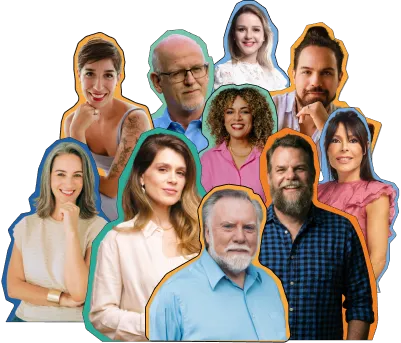
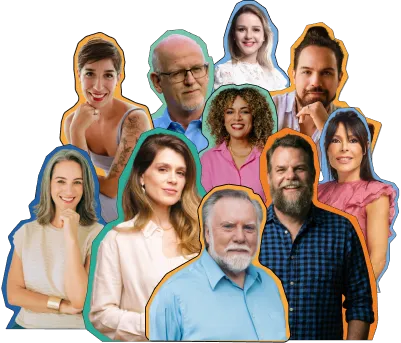
fix(section2): ajusta scroll-mt para evitar corte de texto nos botoes do hero vsl

Changed region(s): [[0.0, 0.379, 0.2693, 0.9621]]

diff --git a/src/components/sections/HeroSectionVSL.tsx b/src/components/sections/HeroSectionVSL.tsx
@@ -1,181 +1,28 @@
 "use client";
 
-import { useState, useRef, useEffect } from "react";
-import { Volume2 } from "lucide-react";
+import { useEffect } from "react";
 import Marquee01 from "@/components/sections/Marquee01";
 import Marquee02 from "@/components/sections/Marquee02";
 
-interface HeroSectionVSLProps {
-    videoId?: string;
-}
-
-// ponytail: minimal YT IFrame API loader — single hero player, no wrapper lib
-function loadYouTubeApi(cb: () => void) {
-    const w = window as any;
-    if (w.YT && w.YT.Player) { cb(); return; }
-    const prev = w.onYouTubeIframeAPIReady;
-    w.onYouTubeIframeAPIReady = () => { prev?.(); cb(); };
-    if (!document.getElementById("youtube-iframe-api")) {
-        // Preconnect + preload live in the document <head> (layout.tsx); this reads from cache
-        const tag = document.createElement("script");
-        tag.id = "youtube-iframe-api";
-        tag.src = "https://www.youtube.com/iframe_api";
-        document.head.appendChild(tag);
+declare global {
+    namespace JSX {
+        interface IntrinsicElements {
+            'vturb-smartplayer': React.DetailedHTMLProps<React.HTMLAttributes<HTMLElement> & { id?: string }, HTMLElement>;
+        }
     }
 }
 
-export default function HeroSectionVSL({
-    videoId = "43nQXAVRh-E"
-}: HeroSectionVSLProps) {
-    const playerRef = useRef<any>(null);
-    const mountRef = useRef<HTMLDivElement>(null);
-    const containerRef = useRef<HTMLDivElement>(null);
-    const isReadyRef = useRef<boolean>(false);
-    const fadeIntervalRef = useRef<any>(null);
-    const [isPaused, setIsPaused] = useState<boolean>(true);
-
+export default function HeroSectionVSL() {
     useEffect(() => {
-        let cancelled = false;
-        let observer: IntersectionObserver | null = null;
-
-        loadYouTubeApi(() => {
-            if (cancelled || !mountRef.current) return;
-            const w = window as any;
-            playerRef.current = new w.YT.Player(mountRef.current, {
-                videoId,
-                playerVars: {
-                    autoplay: 0,       // Não inicia sozinho no carregamento
-                    mute: 0,
-                    loop: 1,
-                    playlist: videoId, // required for single-video loop
-                    controls: 0,       // no YouTube controls
-                    modestbranding: 1,
-                    rel: 0,            // no related-video grid
-                    playsinline: 1,
-                    disablekb: 1,
-                    fs: 0,
-                    iv_load_policy: 3, // no annotations/cards
-                    cc_load_policy: 0, // desativar legendas do YouTube
-                    cc_lang_pref: "none",
-                },
-                events: {
-                    onReady: (e: any) => {
-                        isReadyRef.current = true;
-                        try {
-                            e.target.unloadModule?.("captions");
-                            e.target.unloadModule?.("cc");
-                        } catch {}
-                        setupObserver();
-                    },
-                    onStateChange: (e: any) => {
-                        // Quando o vídeo começa a tocar (state 1 = PLAYING), força a remoção das legendas do YouTube
-                        if (e.data === 1 || e.data === (window as any).YT?.PlayerState?.PLAYING) {
-                            try {
-                                e.target.unloadModule?.("captions");
-                                e.target.unloadModule?.("cc");
-                                e.target.setOption?.("captions", "track", {});
-                                e.target.setOption?.("cc", "track", {});
-                            } catch {}
-                        }
-                    },
-                },
-            });
-        });
-
-        function fadeOutAndPause(p: any) {
-            if (!p) return;
-            setIsPaused(true);
-            if (fadeIntervalRef.current) clearInterval(fadeIntervalRef.current);
-
-            let vol = 100;
-            try {
-                if (typeof p.getVolume === "function") {
-                    vol = p.getVolume() || 100;
-                }
-            } catch {}
-
-            fadeIntervalRef.current = setInterval(() => {
-                vol -= 15;
-                if (vol <= 0) {
-                    clearInterval(fadeIntervalRef.current);
-                    fadeIntervalRef.current = null;
-                    try {
-                        p.setVolume(0);
-                        p.pauseVideo();
-                    } catch {}
-                } else {
-                    try {
-                        p.setVolume(vol);
-                    } catch {}
-                }
-            }, 35);
+        const scriptId = "vturb-player-script";
+        if (!document.getElementById(scriptId)) {
+            const s = document.createElement("script");
+            s.id = scriptId;
+            s.src = "https://scripts.converteai.net/45503b29-1a7d-4696-ac1d-75f7fc87b786/players/6a693af5a9935db927668857/v4/player.js";
+            s.async = true;
+            document.head.appendChild(s);
         }
-
-        function fadeInAndPlay(p: any) {
-            if (!p) return;
-            setIsPaused(false);
-            if (fadeIntervalRef.current) clearInterval(fadeIntervalRef.current);
-
-            try {
-                p.setVolume(0);
-                p.playVideo();
-            } catch {
-                try {
-                    p.mute();
-                    p.playVideo();
-                } catch {}
-            }
-
-            let vol = 0;
-            fadeIntervalRef.current = setInterval(() => {
-                vol += 15;
-                if (vol >= 100) {
-                    clearInterval(fadeIntervalRef.current);
-                    fadeIntervalRef.current = null;
-                    try {
-                        p.setVolume(100);
-                    } catch {}
-                } else {
-                    try {
-                        p.setVolume(vol);
-                    } catch {}
-                }
-            }, 35);
-        }
-
-        function setupObserver() {
-            if (!containerRef.current || observer) return;
-
-            observer = new IntersectionObserver(
-                (entries) => {
-                    entries.forEach((entry) => {
-                        const p = playerRef.current;
-                        if (!p || !isReadyRef.current) return;
-
-                        // Se o player estiver 100% visível na tela (>= 0.95 para precisão subpixel)
-                        if (entry.intersectionRatio >= 0.95) {
-                            fadeInAndPlay(p);
-                        } else if (entry.intersectionRatio < 0.3) {
-                            // Inicia o fade suave assim que o player começa a sair da tela
-                            fadeOutAndPause(p);
-                        }
-                    });
-                },
-                {
-                    threshold: [0, 0.3, 0.95, 1.0],
-                }
-            );
-
-            observer.observe(containerRef.current);
-        }
-
-        return () => {
-            cancelled = true;
-            if (fadeIntervalRef.current) clearInterval(fadeIntervalRef.current);
-            observer?.disconnect();
-            playerRef.current?.destroy?.();
-        };
-    }, [videoId]);
+    }, []);
 
     return (
         <section
@@ -213,34 +60,19 @@ export default function HeroSectionVSL({
                     </div>
                 </div>
 
-                {/* --- VSL Video Frame (responsive 16:9) --- */}
+                {/* --- VSL Video Frame (VTurb SmartPlayer) --- */}
                 <div
-                    ref={containerRef}
-                    className="w-full max-w-[960px] aspect-video relative rounded-[20px] md:rounded-[32px] overflow-hidden border-2 md:border-4 border-[#191919] shadow-[6px_6px_0px_0px_#191919] md:shadow-[10px_10px_0px_0px_#191919] bg-black bg-center my-2 z-10"
-                    style={{ backgroundImage: `url(https://i.ytimg.com/vi/${videoId}/maxresdefault.jpg)`, backgroundSize: "cover", backgroundPosition: "center" }}
+                    className="w-full max-w-[960px] relative rounded-[20px] md:rounded-[32px] overflow-hidden border-2 md:border-4 border-[#191919] shadow-[6px_6px_0px_0px_#191919] md:shadow-[10px_10px_0px_0px_#191919] bg-black my-2 z-10"
                 >
-                    {/* YouTube player mounts inside */}
-                    <div className="yt-frame absolute inset-0 w-full h-full overflow-hidden pointer-events-none">
-                        <div ref={mountRef} className="w-full h-full" />
-                    </div>
-
-                    {/* Overlay sutil de transição visual ao pausar */}
-                    <div
-                        className={`absolute inset-0 bg-black/25 pointer-events-none transition-opacity duration-700 ease-in-out ${
-                            isPaused ? "opacity-100" : "opacity-0"
-                        }`}
-                    />
-
-                    <style jsx>{`
-                        .yt-frame :global(iframe) {
-                            position: absolute;
-                            left: 0;
-                            top: 0;
-                            width: 100%;
-                            height: 100%;
-                            pointer-events: none;
-                        }
-                    `}</style>
+                    <vturb-smartplayer
+                        id="vid-6a693af5a9935db927668857"
+                        style={{ display: "block", margin: "0 auto", width: "100%" }}
+                    >
+                        <div
+                            className="vturb-player-placeholder"
+                            style={{ position: "relative", width: "100%", padding: "56.25% 0 0", zIndex: 0, backgroundColor: "black" }}
+                        />
+                    </vturb-smartplayer>
                 </div>
 
                 {/* --- CTAs (Below Video - z-20) --- */}

diff --git a/src/app/layout.tsx b/src/app/layout.tsx
@@ -53,14 +53,17 @@ export default function RootLayout({
                 <link rel="preload" as="image" href="/images/palestrantes_hero_mob.webp" media="(max-width: 1023px)" type="image/webp" />
                 <link rel="preload" as="image" href="/images/grafismo_HERO.svg" type="image/svg+xml" />
 
-                {/* Hero VSL (YouTube) — warm up hosts and pre-download the player loader early,
-                    without beforeInteractive so it doesn't block hero LCP */}
-                <link rel="preconnect" href="https://www.youtube.com" />
-                <link rel="preconnect" href="https://i.ytimg.com" />
-                <link rel="preconnect" href="https://www.google.com" />
-                <link rel="preconnect" href="https://googleads.g.doubleclick.net" />
-                <link rel="preconnect" href="https://static.doubleclick.net" />
-                <link rel="preload" as="script" href="https://www.youtube.com/iframe_api" />
+                {/* VTurb SmartPlayer Optimizations & Preloads */}
+                <Script id="vturb-plt" strategy="beforeInteractive">
+                    {`!function(i,n){i._plt=i._plt||(n&&n.timeOrigin?n.timeOrigin+n.now():Date.now())}(window,performance);`}
+                </Script>
+                <link rel="preload" href="https://scripts.converteai.net/45503b29-1a7d-4696-ac1d-75f7fc87b786/players/6a693af5a9935db927668857/v4/player.js" as="script" />
+                <link rel="preload" href="https://scripts.converteai.net/lib/js/smartplayer-wc/v4/smartplayer.js" as="script" />
+                <link rel="preload" href="https://cdn.converteai.net/45503b29-1a7d-4696-ac1d-75f7fc87b786/6a693a673856dcec61ff4296/main.m3u8" as="fetch" />
+                <link rel="dns-prefetch" href="https://cdn.converteai.net" />
+                <link rel="dns-prefetch" href="https://scripts.converteai.net" />
+                <link rel="dns-prefetch" href="https://images.converteai.net" />
+                <link rel="dns-prefetch" href="https://license.vturb.com" />
 
                 <Script id="utmify-config" strategy="beforeInteractive">
                     {`window.pixelId = "698a1cc063e361a00f21dd5a";`}

diff --git a/src/components/sections/Section2.tsx b/src/components/sections/Section2.tsx
@@ -2,7 +2,7 @@
 
 export default function Section2() {
     return (
-        <section className="bg-[#fff6ef] w-full flex flex-col items-center px-4 md:px-0 pb-[80px] pt-[56px] relative isolate overflow-visible" id="contexto" data-name="Section - 2">
+        <section className="bg-[#fff6ef] w-full flex flex-col items-center px-4 md:px-0 pb-[80px] pt-[56px] relative isolate overflow-visible scroll-mt-24" id="contexto" data-name="Section - 2">
             <div className="layout-container flex flex-col gap-[48px] items-center relative z-10 w-full">
                 <div className="flex flex-col items-center gap-10 w-full max-w-full text-center">
                     {/* Header Group */}

diff --git a/src/types/vturb.d.ts b/src/types/vturb.d.ts
@@ -1,0 +1,14 @@
+import React from 'react';
+
+declare global {
+  namespace JSX {
+    interface IntrinsicElements {
+      'vturb-smartplayer': React.DetailedHTMLProps<React.HTMLAttributes<HTMLElement> & { id?: string }, HTMLElement>;
+    }
+  }
+  namespace React.JSX {
+    interface IntrinsicElements {
+      'vturb-smartplayer': React.DetailedHTMLProps<React.HTMLAttributes<HTMLElement> & { id?: string }, HTMLElement>;
+    }
+  }
+}
